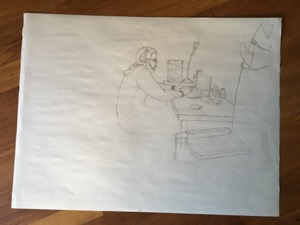
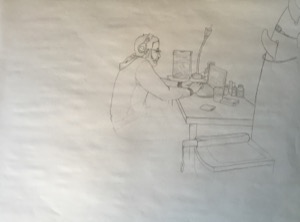
Cropped some images, changed main font

diff --git a/lib/Detail.js b/lib/Detail.js
@@ -1,8 +1,27 @@
 'use strict';
 
-var _createClass = function () { function defineProperties(target, props) { for (var i = 0; i < props.length; i++) { var descriptor = props[i]; descriptor.enumerable = descriptor.enumerable || false; descriptor.configurable = true; if ("value" in descriptor) descriptor.writable = true; Object.defineProperty(target, descriptor.key, descriptor); } } return function (Constructor, protoProps, staticProps) { if (protoProps) defineProperties(Constructor.prototype, protoProps); if (staticProps) defineProperties(Constructor, staticProps); return Constructor; }; }();
+var _createClass = function () {
+    function defineProperties(target, props) {
+        for (var i = 0; i < props.length; i++) {
+            var descriptor = props[i];
+            descriptor.enumerable = descriptor.enumerable || false;
+            descriptor.configurable = true;
+            if ("value" in descriptor) descriptor.writable = true;
+            Object.defineProperty(target, descriptor.key, descriptor);
+        }
+    }
+    return function (Constructor, protoProps, staticProps) {
+        if (protoProps) defineProperties(Constructor.prototype, protoProps);
+        if (staticProps) defineProperties(Constructor, staticProps);
+        return Constructor;
+    };
+}();
 
-function _classCallCheck(instance, Constructor) { if (!(instance instanceof Constructor)) { throw new TypeError("Cannot call a class as a function"); } }
+function _classCallCheck(instance, Constructor) {
+    if (!(instance instanceof Constructor)) {
+        throw new TypeError("Cannot call a class as a function");
+    }
+}
 
 /**
  * Created by lowellbander on 6/2/16.
@@ -36,15 +55,17 @@ var Detail = function () {
             img.style.marginRight = 'auto';
             detail.appendChild(img);
 
-            var h4 = document.createElement('h4');
-            h4.innerHTML = piece.description;
-            h4.style.color = 'white';
-            h4.style.textAlign = 'center';
-            h4.style.width = '100%';
-            h4.style.bottom = '0';
-            h4.style.position = 'absolute';
-            h4.style.fontFamily = 'Josefin Slab';
-            detail.appendChild(h4);
+            var p = document.createElement('p');
+            p.innerHTML = piece.description;
+            p.style.color = 'white';
+            p.style.textAlign = 'center';
+            p.style.width = '100%';
+            p.style.bottom = '0';
+            p.style.position = 'absolute';
+            p.style.fontFamily = 'Lato';
+            p.style.fontSize = '18px';
+            p.style.fontWeight = '300';
+            detail.appendChild(p);
 
             return detail;
         }

diff --git a/index.html b/index.html
@@ -12,7 +12,8 @@
 <script src="http://maxcdn.bootstrapcdn.com/bootstrap/3.3.6/js/bootstrap.min.js"></script>
 
 <!-- Fonts from Google fonts -->
-<link href='https://fonts.googleapis.com/css?family=Dancing+Script|Ubuntu|Josefin+Slab' rel='stylesheet' type='text/css'>
+<link href='https://fonts.googleapis.com/css?family=Dancing+Script|Lato:400,300,100' rel='stylesheet' type='text/css'>
+<!--Other good fonts: Roboto, Ubuntu, Oswald, Raleway, Open Sans-->
 
 <head>
     <link rel="stylesheet" type="text/css" href="style.css">
@@ -38,14 +39,14 @@
     </div>
     <div id="navbar" class="row">
         <div class="col-md-4 col-xs-4 menuitem">
-            <h4 class="navtext" onclick="scene.render(TAG.TOP)">Home</h4>
+            <p class="navtext" onclick="scene.render(TAG.TOP)">Home</p>
         </div>
         <div class="col-md-4 col-xs-4 menuitem">
-            <h4 class="navtext" onclick="scene.render('about')">About</h4>
+            <p class="navtext" onclick="scene.render('about')">About</p>
         </div>
         <div class="col-md-4 col-xs-4 menuitem">
             <div class="dropdown" onclick="scene.dropdown()">
-                <h4 class="navtext dropdown">Portfolio</h4>
+                <p class="navtext dropdown">Portfolio</p>
             </div>
             <div id="mydrop" class="dropdown-content">
                 <div onclick="scene.dropdown();scene.render()">All Work</div>

diff --git a/style.css b/style.css
@@ -149,7 +149,10 @@ img#logo {
     width: 80%;
     color: white;
     text-align: center;
-    font-family: 'Josefin Slab', sans-serif;
+    font-family: 'Lato', sans-serif;
+    font-weight: 300;
+    font-size: 18px;
+    line-height: 1.1;
     margin-left: 10%;
 }
 
@@ -211,7 +214,7 @@ div.dropdown {
     width: 80%;
     margin: 0 auto;
     text-align: center;
-    font-family: 'Josefin Slab', sans-serif;
+    font-family: 'Lato', sans-serif;
     padding: 0px;
     padding-top: 10px;
     padding-bottom: 10px;
@@ -225,7 +228,8 @@ div.dropdown {
     height: var(--footer-height);
     width: 80%;
     position: relative;
-    font-family: 'Josefin Slab', sans-serif;
+    font-family: 'Lato', sans-serif;
+    font-weight: 300;
     color: white;
     background-color: var(--header-color);
     z-index: 1;
